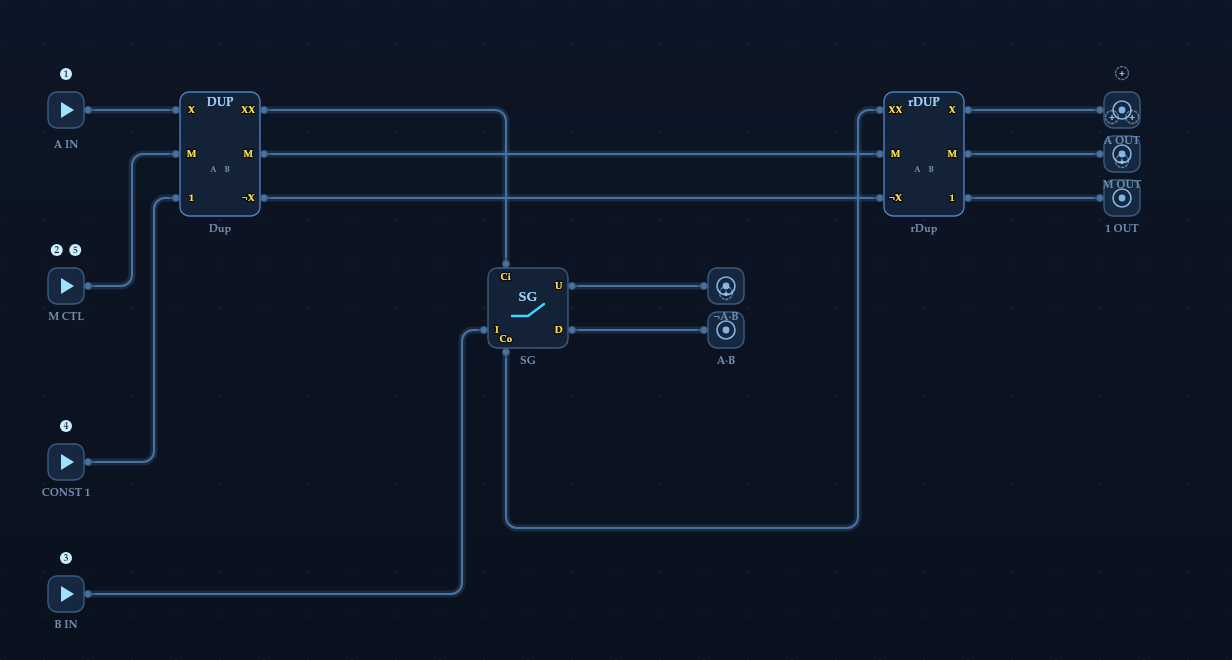
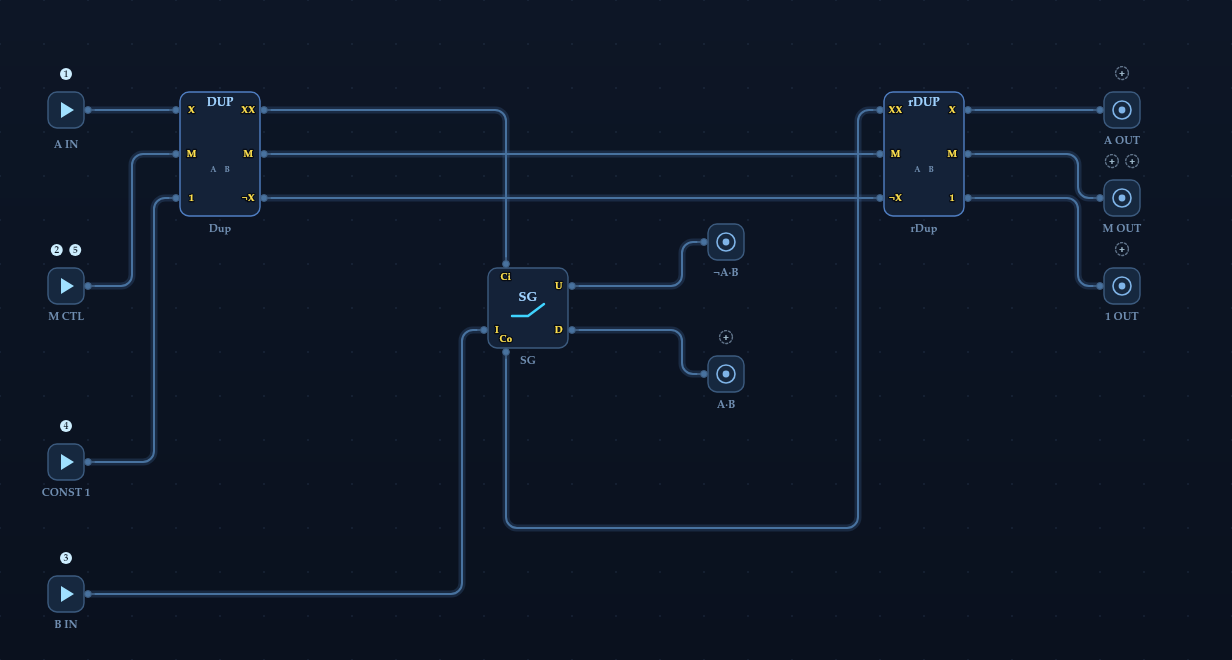
W2·6: spread output detectors vertically so labels don't overlap
Move A/M/1 OUT to rows 2/4/6 and ¬A·B/A·B to rows 5/8. Only lengthens the
terminal output wires (no functional change); certify 4×7 still passes.

Changed region(s): [[0.5244, 0.3333, 0.6169, 0.6061], [0.8636, 0.1515, 0.9253, 0.4848]]

diff --git a/js/levels.js b/js/levels.js
@@ -323,8 +323,8 @@ version of a <b>Duplicator</b> can reduce the two A’s back to a single copy, p
       fixed: [
         el('L_A', 'LAUNCHER', 1, 2), el('L_M', 'LAUNCHER', 1, 6), el('L_1', 'LAUNCHER', 1, 10), el('L_B', 'LAUNCHER', 1, 13),
         el('dup', 'DUP', 4, 2), el('sg', 'TSG', 11, 6), el('rdup', 'RDUP', 20, 2),
-        el('D_nand', 'DETECTOR', 16, 6), el('D_and', 'DETECTOR', 16, 7),
-        el('D_A', 'DETECTOR', 25, 2), el('D_M', 'DETECTOR', 25, 3), el('D_1', 'DETECTOR', 25, 4),
+        el('D_nand', 'DETECTOR', 16, 5), el('D_and', 'DETECTOR', 16, 8),
+        el('D_A', 'DETECTOR', 25, 2), el('D_M', 'DETECTOR', 25, 4), el('D_1', 'DETECTOR', 25, 6),
       ],
       labels: {
         L_A: 'A IN', L_M: 'M CTL', L_1: 'CONST 1', L_B: 'B IN', dup: 'Dup', sg: 'SG', rdup: 'rDup',